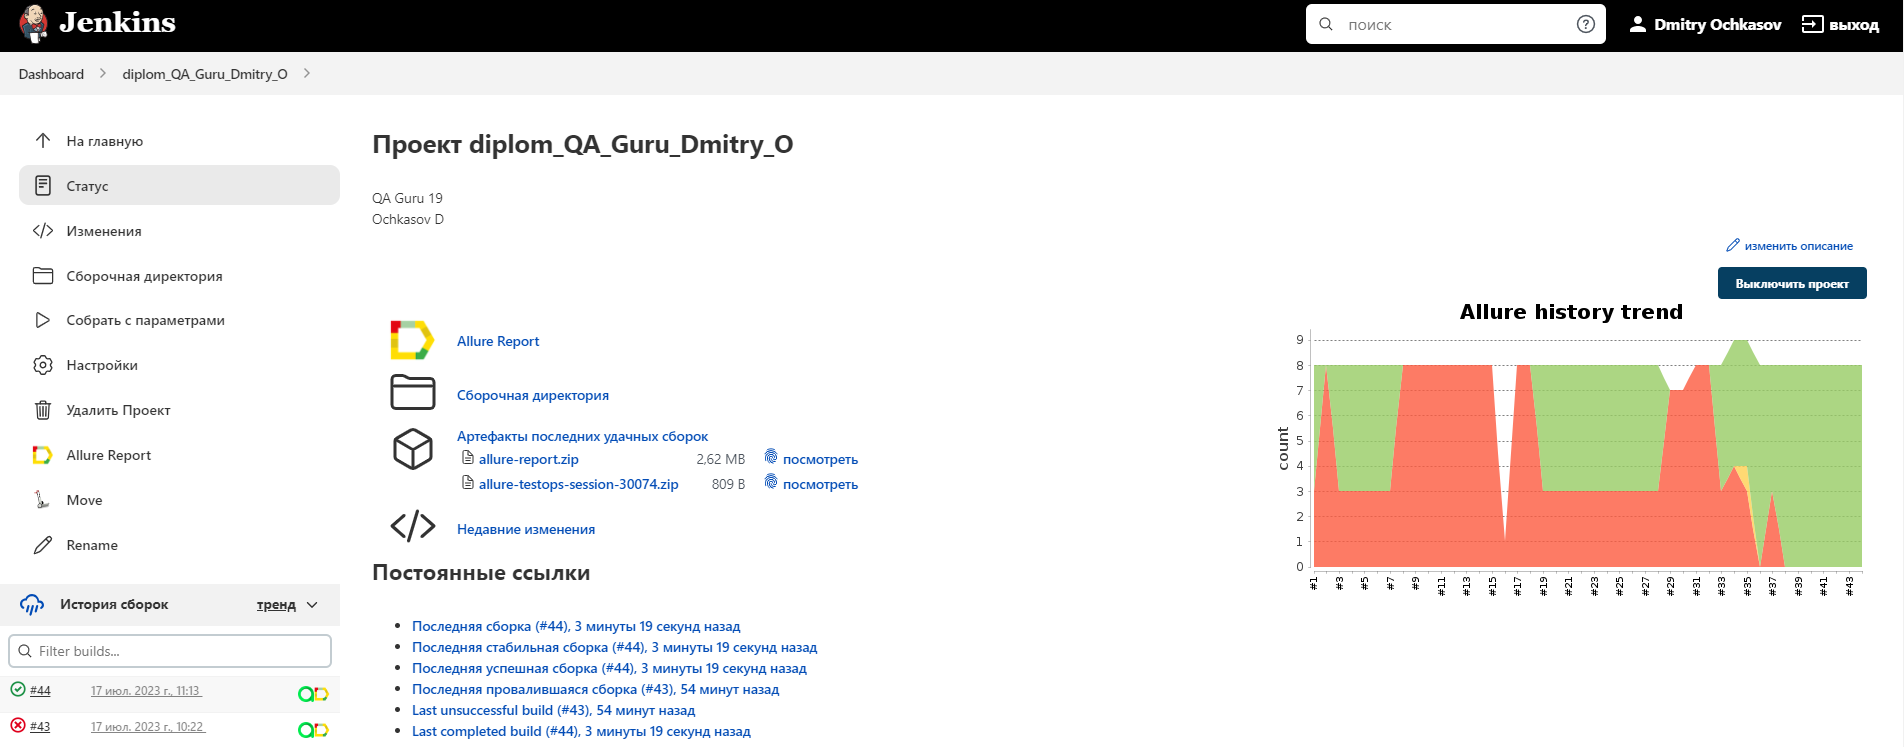
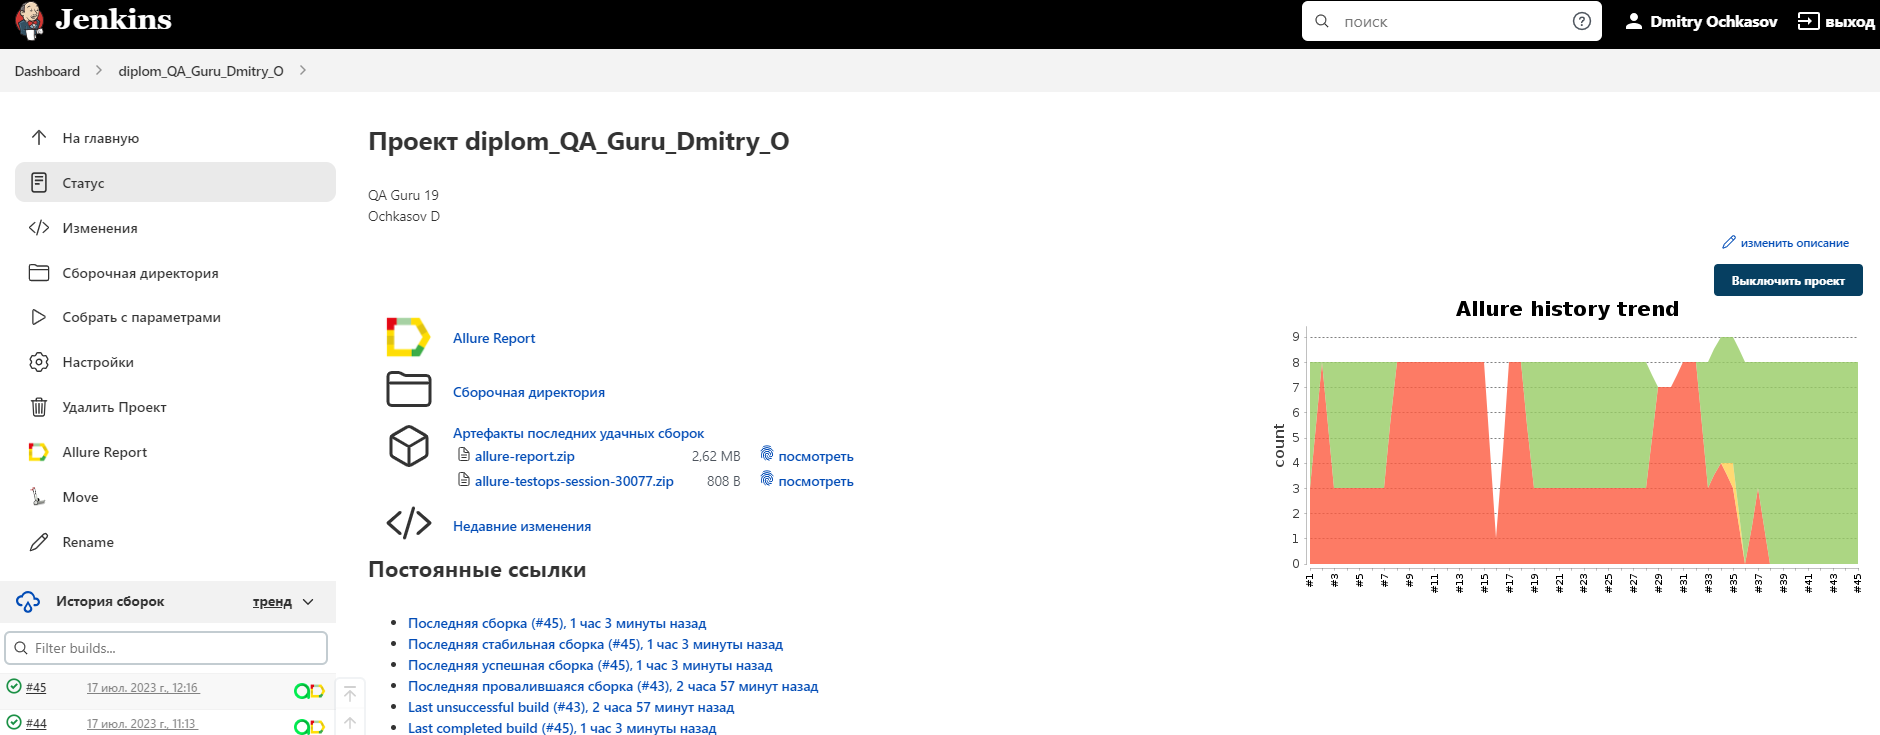
add telegram notifications fix api test add readme fix tags add screenshot add gif

diff --git a/README.md b/README.md
@@ -179,7 +179,7 @@ dependencies {
 результатам сборки*
 
 <a href="https://jenkins.autotests.cloud/job/diplom_QA_Guru_Dmitry_O/">
-<img src="/jenkins/JenkinsProject.png" alt="Jenkins">
+<img src="readme_files/jenkins/JenkinsProject.png" alt="Jenkins">
 </a>
 
 
